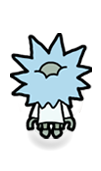
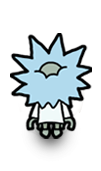
changed shadow of ricks img / readded rotate block

Changed region(s): [[0.297, 0.7018, 0.6832, 0.8772], [0.4752, 0.731, 0.5347, 0.7602], [0.7129, 0.7602, 0.7426, 0.7895]]

diff --git a/lib/blocks.js b/lib/blocks.js
@@ -18,3 +18,14 @@ Blockly.Blocks['move'] = {
     this.setColour(240)
   }
 }
+
+Blockly.Blocks['rotate'] = {
+  init: function () {
+    this.appendDummyInput()
+      .appendField('Rotate')
+      .appendField(new Blockly.FieldDropdown([['Left', 'LEFT'], ['Right', 'RIGHT']]), 'Direction')
+    this.setPreviousStatement(true, null)
+    this.setNextStatement(true, null)
+    this.setColour(240)
+  }
+}

diff --git a/lib/javascript-commands.js b/lib/javascript-commands.js
@@ -4,3 +4,8 @@ Blockly.JavaScript.move = function (block) {
   var dropdownMove = block.getFieldValue('Move')
   return 'move(' + '"' + dropdownMove + '"' + ')\n'
 }
+
+Blockly.JavaScript.rotate = function (block) {
+  var dropdownDirection = block.getFieldValue('Direction')
+  return 'rotate(' + '"' + dropdownDirection + '"' + ')\n'
+}

diff --git a/lib/toolbox.js b/lib/toolbox.js
@@ -7,6 +7,7 @@ module.exports = `
       <sep></sep>
       <category name="Movement" colour="240">
         <block type="move"></block>
+        <block type="rotate"></block>
       </category>
    </xml>
 `
